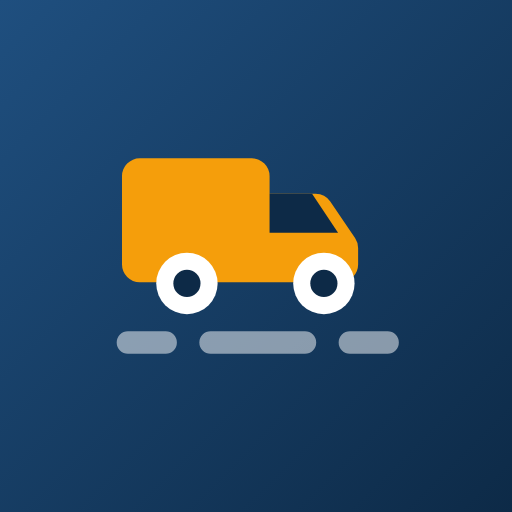
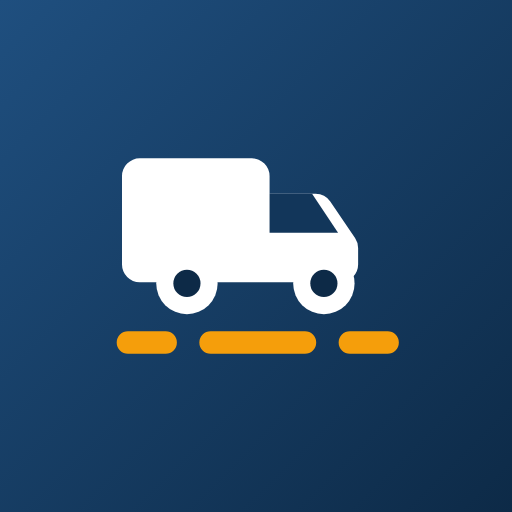
O veículo do ícone volta a ser branco (#25)
O ícone tinha saído âmbar para casar com o pin do Roteiros. Casou com o
Roteiros e passou a destoar do Estoque, que é azul chapado com traço
branco — e os três ficam lado a lado na mesma tela inicial.

Branco fica no meio: a cor do cubo do Estoque, com a estrada âmbar
amarrando no pin do Roteiros.

Fica só a cor. O enquadramento menor e o maskable em arquivo próprio,
que eram os defeitos de verdade, continuam como estavam.

Claude-Session: https://claude.ai/code/session_01DXZnkw6qKpWh6Wz66hRRHw

diff --git a/components/Logo.tsx b/components/Logo.tsx
@@ -41,11 +41,13 @@ export function Logo({
  * reconhece cada um pelo ícone antes de ler o nome. Mudou aqui, tem que mudar
  * lá — o `docs/handoff.md` explica como os PNGs são gerados.
  *
- * O veículo é âmbar e não branco pelo mesmo motivo: o pin do Roteiros é âmbar
- * sobre azul, com um detalhe branco. Um ícone branco sobre azul ao lado de um
- * âmbar sobre azul não se lê como a mesma família — lê-se como dois sistemas de
- * origens diferentes. O motivo também encolheu: em 32px o veículo grande virava
- * uma mancha branca sem forma reconhecível.
+ * O veículo é branco sobre o azul, como o cubo do Estoque; a estrada âmbar é o
+ * que amarra no pin do Roteiros. Os três ícones do grupo não seguem um sistema
+ * único — o Roteiros tem um motivo âmbar sólido, o Estoque um traço branco — e
+ * este fica no meio de propósito, para não destoar de nenhum dos dois.
+ *
+ * O desenho encolheu (ocupa 330 de 512, contra os 400 de antes): em 32px o
+ * veículo grande virava uma mancha branca sem forma reconhecível.
  */
 export function Simbolo({ tamanho = 28, className = "" }: { tamanho?: number; className?: string }) {
   return (
@@ -55,10 +57,10 @@ export function Simbolo({ tamanho = 28, className = "" }: { tamanho?: number; cl
         {/* carroceria */}
         <path
           d="M4.5 11.5A1.5 1.5 0 0 1 6 10h9.5a1.5 1.5 0 0 1 1.5 1.5V13h3.9a1.5 1.5 0 0 1 1.24.66l2.1 3.1a1.5 1.5 0 0 1 .26.84V19a1.5 1.5 0 0 1-1.5 1.5H6a1.5 1.5 0 0 1-1.5-1.5v-7.5Z"
-          fill="#f59e0b"
+          fill="#ffffff"
         />
         {/* janela da cabine */}
-        <path d="M17 13h3.6l2.2 3.3H17V13Z" fill="#0d2a47" />
+        <path d="M17 13h3.6l2.2 3.3H17V13Z" fill="#12365a" />
         {/* rodas */}
         <circle cx="10" cy="20.6" r="2.6" fill="#ffffff" />
         <circle cx="10" cy="20.6" r="1.15" fill="#0d2a47" />
@@ -67,8 +69,7 @@ export function Simbolo({ tamanho = 28, className = "" }: { tamanho?: number; cl
         {/* estrada */}
         <path
           d="M5 25.6h3.2M12 25.6h8M23.8 25.6h3.2"
-          stroke="#ffffff"
-          strokeOpacity="0.5"
+          stroke="#f59e0b"
           strokeWidth="1.9"
           strokeLinecap="round"
         />

diff --git a/docs/handoff.md b/docs/handoff.md
@@ -413,11 +413,17 @@ Agora o ícone é **o símbolo do sistema**: o veículo sobre a estrada, o mesmo
 desenho do `Simbolo` em `components/Logo.tsx`. É a regra que o Roteiros já
 segue — lá o símbolo do topo e o ícone da tela inicial são a mesma marca.
 
-O veículo passou de branco para **âmbar**, e o motivo é a família: o pin do
-Roteiros é âmbar sobre azul com um detalhe branco. Um ícone branco sobre azul ao
-lado de um âmbar sobre azul não se lê como o mesmo grupo. O desenho também
-encolheu (ocupa 330 de 512, contra os 400 da primeira tentativa) — em 32px o
-veículo grande virava uma mancha sem forma.
+O veículo é **branco** sobre o azul, como o cubo do Estoque; a estrada âmbar é o
+que amarra no pin do Roteiros. Vale registrar o que se descobriu no caminho: os
+três ícones do grupo **não seguem um sistema único**. O Roteiros é gradiente com
+um motivo âmbar sólido; o Estoque é azul chapado com traço branco. Chegou a
+existir uma versão âmbar deste ícone, para casar com o Roteiros, mas ela
+destoava do Estoque — foi decisão de 2026-09-10 manter o veículo branco, que
+fica no meio e não briga com nenhum dos dois. Unificar os três de verdade é
+trabalho de mexer nos três repositórios, e não foi feito.
+
+O desenho encolheu (ocupa 330 de 512, contra os 400 da primeira tentativa) — em
+32px o veículo grande virava uma mancha sem forma.
 
 **Arquivos.** `public/icone.svg` é a fonte; os PNGs saem dele.
 
